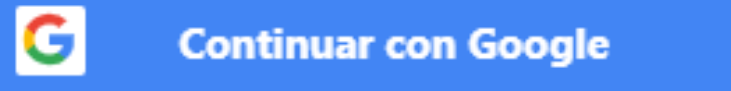
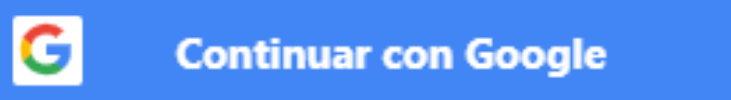
login

Changed region(s): [[0.2408, 0.2857, 0.8427, 0.7912], [0.0, 0.044, 0.1204, 0.8791]]

diff --git a/Login.html b/Login.html
@@ -87,7 +87,9 @@
     <main>
 
         <section class="container-fluid" >
+
             <div class="d-flex justify-content-center">
+<!-- Formulario de Inicio de Sesión-->              
                 <div class="col-12 col-md-6 d-flex align-items-center justify-content-center">
                     <form class="formLogin">
                         <div class="mb-3">
@@ -100,25 +102,24 @@
                             <a href="" class="text-decoration-none text-secondary" data-bs-toggle="modal" data-bs-target="#password">¿Olvidaste la contraseña?</a>
                         </div>  
                         <div class="d-grid gap-2 col-8 mx-auto">
-                            <button type="submit" class="btn btn-primary mb-2">Iniciar sesión</button>
+                            <button id="btn_IS" type="submit" class="btn mb-2">Iniciar sesión</button>
                         </div> 
                         <p class="d-flex justify-content-center">o</p>
                         <div class="d-flex justify-content-center">
                             <a href=""><img  class="btn_FB" src="./img/Login/facebook.png" alt=""></a>
                             <a href=""><img  class="btn_GG" src="./img/Login/google.png" alt=""></a>
-                            <!--<button type="button" class="btn btn-primary">Facebook</button>
-                            <button type="button" class="btn btn-primary">Google</button>-->
+                        
                         </div>
                     </form>
                     
                 </div>
-                <div class="">
-                    <img class="w-100" src="./img/Login/fondo.jpg" alt="imgLogin">
+                <div>
+                    <img class="w-100 h-100" src="./img/Login/fondo.jpg" alt="imgLogin">
                 </div>
             </div>
             
         </section>
-        
+<!--Modal Recuperar Contraseña-->       
         <div class="modal fade" id="password" tabindex="-1" aria-labelledby="exampleModalLabel" style="display: none;" aria-hidden="true">
             <div class="modal-dialog">
                 <div class="modal-content">
@@ -141,43 +142,42 @@
             </div>
         </div>
 
-        
-
-
-
-
     </main>
 
-    <footer class=" container-fluid pt-4 y-md-5 pt-md-5 border-top mt5">
+    <footer class=" container-fluid pt-4 y-md-5 pt-md-5 border-top mt-5">
+
         <div class="row">
-          <div class="col-12 col-md-4 text-center">
-            <img src="./img/Logo/Logo 1 (blanco) (2).png" alt="CaminandoHorizontes" class="logoFooter" href="./indexNavbar.html">
-          </div>
-          <div class="col-12 text-center col-md-4 Redes">
-            <ul class="">
-              <a href="#"><img class="linkedin" src="./img/Footer/pngwing linkedin.com.png" alt="Linkedin" href="#"></a>
-              <a href="#"><img class="instagram" src="./img/Footer/pngwing instanegro.com.png" alt="Instagram"></a>
-              <a href="#"><img class="twitter" src="./img/Footer/pngwing twitter.com.png" alt="Twitter"></a>
-              <a href="#"><img class="facebook" src="./img/Footer/pngwing facebook negro.com.png" alt="Facebook"></a>
-            </ul>
+            <div class="col-12 col-md-4 text-center">
+                <img src="./img/Logo/Logo 1 (blanco) (2).png" alt="CaminandoHorizontes" class="logoFooter" href="./indexNavbar.html">
+            </div>
+            <div class="col-12 text-center col-md-4 Redes">
+                <ul class="">
+                <a href="#"><img class="linkedin" src="./img/Footer/pngwing linkedin.com.png" alt="Linkedin" href="#"></a>
+                <a href="#"><img class="instagram" src="./img/Footer/pngwing instanegro.com.png" alt="Instagram"></a>
+                <a href="#"><img class="twitter" src="./img/Footer/pngwing twitter.com.png" alt="Twitter"></a>
+                <a href="#"><img class="facebook" src="./img/Footer/pngwing facebook negro.com.png" alt="Facebook"></a>
+                </ul>
+            </div>
+            <div class="col-12 col-md-4 ">
+                <h2 class="text-center title-footer">Inspiracion Viajera</h2>
+                <ul class="d-flex flex-column align-items-center">
+                <li>
+                    <a href="#" class="text-center">Nueva York en 7 días</a>
+                </li>
+                <li>
+                    <a href="#" class="text-center">Islandia en 10 días</a>
+                </li>
+                <li>
+                    <a href="#" class="text-center">Ruta por Portugal</a>
+                </li>
+                </ul>  
+            </div>
+            <small class="text-light text-center">Copyrigth 2023 - Caminando Horizontes®</small>
         </div>
-        <div class="col-12 col-md-4 ">
-            <h2 class="text-center title-footer">Inspiracion Viajera</h2>
-            <ul class="d-flex flex-column align-items-center">
-            <li>
-                <a href="#" class="text-center">Nueva York en 7 días</a>
-            </li>
-            <li>
-                <a href="#" class="text-center">Islandia en 10 días</a>
-            </li>
-            <li>
-                <a href="#" class="text-center">Ruta por Portugal</a>
-            </li>
-            </ul>  
-        </div>
-        <small class="text-light text-center">Copyrigth 2023 - Caminando Horizontes®</small>
-        </div>
+
     </footer>
+
 <script src="https://cdn.jsdelivr.net/npm/bootstrap@5.3.1/dist/js/bootstrap.bundle.min.js" integrity="sha384-HwwvtgBNo3bZJJLYd8oVXjrBZt8cqVSpeBNS5n7C8IVInixGAoxmnlMuBnhbgrkm" crossorigin="anonymous"></script>
+
 </body>
 </html>

diff --git a/styles/Login.css b/styles/Login.css
@@ -113,7 +113,7 @@ main {
 
 }
 .btn_GG{
-    width: 160px;
+    width: 200px;
     margin-top: 10px;
 
 
@@ -143,6 +143,14 @@ main {
 .categories ul li a:hover {
     color: var(--colorTwo);
 }
+
+#btn_IS{
+    background-color: var(--colorFour);
+    color: #FFF;
+}
+
+
+
 
 /*
 
